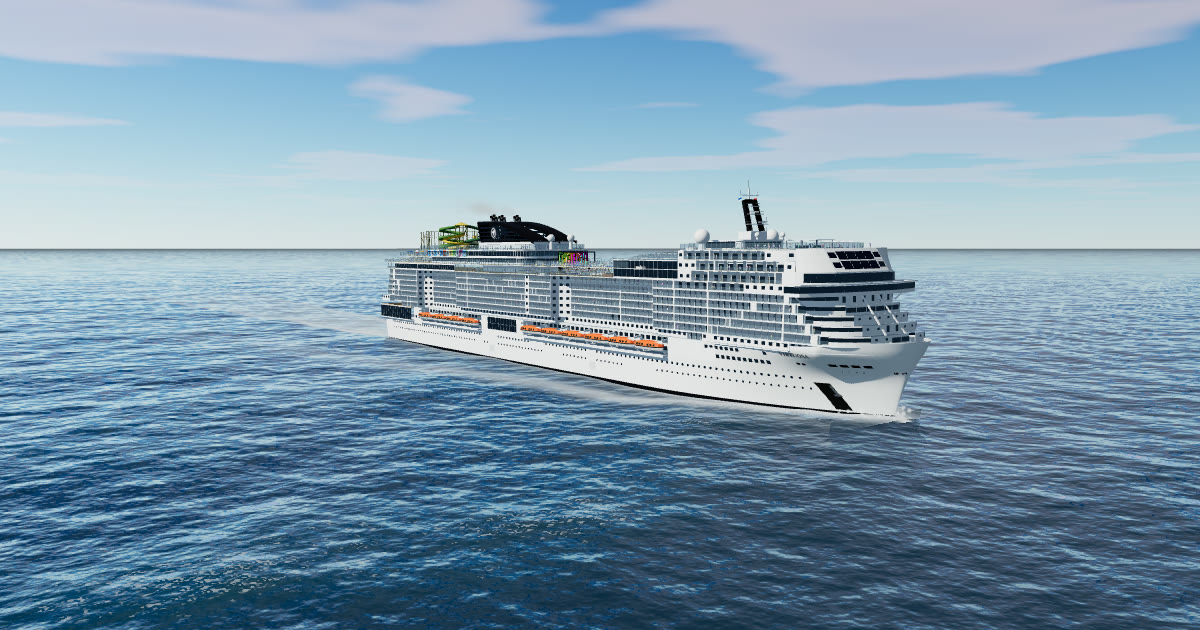
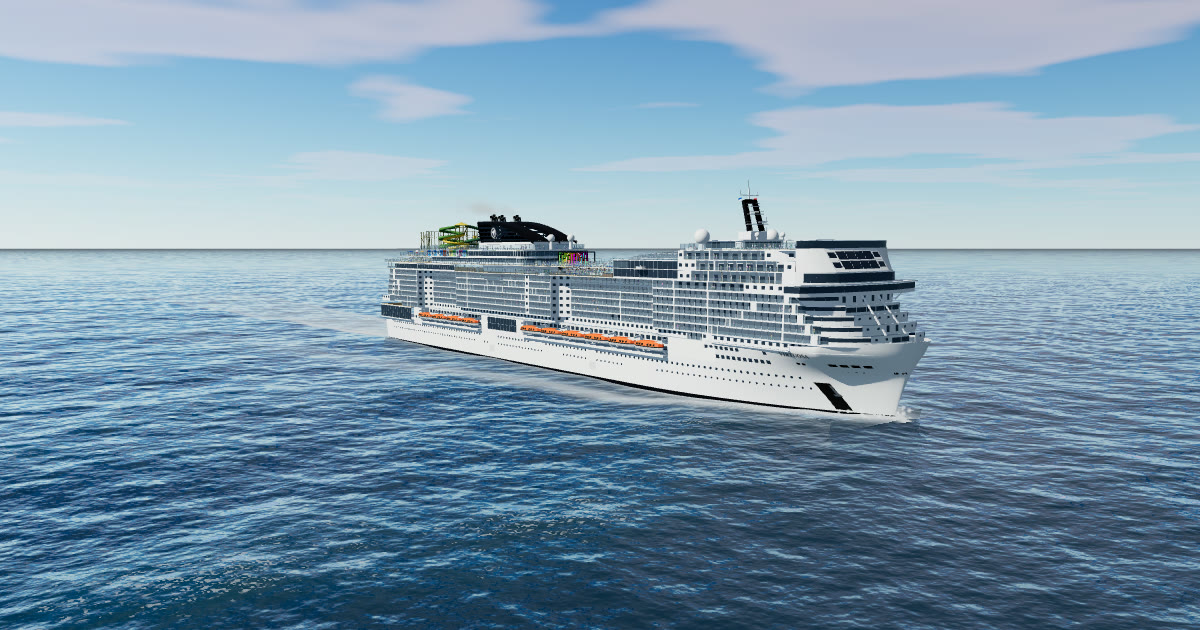
Close the gap at the top of the bow and tidy the 3D scene after review
Bow: deck 19's plan ends about 4 m short of the raked face of the decks below,
which left a gap and a free-standing corner; its sides are now run forward to
meet that face. Window glass is a little less mirror-like, so panes facing away
from the sky no longer go black.

Scene: the shadow map is fitted to the ship for any sun direction; the tour goes
back to the afternoon after its sunset and night shots; the sunset view looks
towards the sun; the Galleria stroll lets go of the camera when the user takes
it; reduced-motion users get no automatic camera movement; a non-numeric ?hour
is ignored; controls keep keyboard focus when they are redrawn. Unused materials
and a debug switch are removed.

diff --git a/ship3d/src/scene.ts b/ship3d/src/scene.ts
@@ -39,7 +39,7 @@ export const SHOTS: Shot[] = [
   { id: 'stern', pos: [-232, 60, 34], target: [-150, 41, 0], drift: -1.5 },
   { id: 'galleria', pos: [sx(GALLERIA.x0 + 5), GALLERIA.y6 + 2.4, 1.2], target: [sx(GALLERIA.x0 + 60), GALLERIA.y6 + 2.2, 0], interior: true },
   { id: 'cutaway', pos: [34, 25, 66], target: [16, 17, 0], drift: 0.35, interior: true, cut: 2.6 },
-  { id: 'sunset', pos: [-225, 20, 255], target: [10, 24, 0], drift: 0.9, hour: 17.5 },
+  { id: 'sunset', pos: [290, 24, -205], target: [0, 26, 0], drift: -0.9, hour: 18.0 },
   { id: 'night', pos: [70, 78, 70], target: [14, 40, 0], drift: 1.6, hour: 21.5 },
 ];
 
@@ -56,6 +56,9 @@ export interface ShipSceneOptions {
   /** called once the first frame is on screen */
   onReady?: () => void;
 }
+
+/** Mid-afternoon: the hour the page opens at. */
+const DAY_HOUR = 15.2;
 
 const QUALITY: Record<Quality, { dpr: number; density: number; shadows: boolean; low: boolean }> = {
   low: { dpr: 1.25, density: 0.4, shadows: false, low: true },
@@ -94,9 +97,12 @@ export class ShipScene {
   private fly: { t: number; dur: number; p0: THREE.Vector3; t0: THREE.Vector3; p1: THREE.Vector3; t1: THREE.Vector3; h0: number; h1: number | null } | null = null;
   private tourT = 0;
   private userHold = 0;
+  /** the Galleria view walks the camera along the promenade until the user takes it */
+  private stroll = true;
   private fill = new THREE.AmbientLight(0xfff0e0, 0);
   private clip = new THREE.Plane(new THREE.Vector3(0, 0, -1), 0);
   private inside = false;
+  private calm = false;
   private dpr: number;
   private maxDpr: number;
   private frames = 0;
@@ -122,11 +128,14 @@ export class ShipScene {
     this.renderer.shadowMap.type = THREE.PCFShadowMap;
     this.renderer.domElement.style.display = 'block';
     this.renderer.domElement.style.touchAction = 'none';
+    this.renderer.domElement.setAttribute('role', 'img');
+    this.renderer.domElement.setAttribute('aria-label', '3D view of the ship at sea');
     el.appendChild(this.renderer.domElement);
 
     this.camera = new THREE.PerspectiveCamera(38, 1, 2, 90000);
     this.env = new Environment(this.renderer, this.scene, q.low);
-    this.env.setHour(opts.hour ?? SHOTS.find((s) => s.id === opts.shot)?.hour ?? 15.2);
+    const hour = opts.hour !== undefined && Number.isFinite(opts.hour) ? opts.hour : undefined;
+    this.env.setHour(hour ?? SHOTS.find((s) => s.id === opts.shot)?.hour ?? DAY_HOUR);
     this.ocean = new Ocean(this.env, q.low);
     this.scene.add(this.ocean.mesh, this.fill);
 
@@ -151,6 +160,7 @@ export class ShipScene {
       // the user took the camera: stop flying and stop the tour
       this.fly = null;
       this.userHold = 6;
+      this.stroll = false;
       if (this.tour) {
         this.tour = false;
         this.opts.onShot?.(this.shot, false);
@@ -162,7 +172,9 @@ export class ShipScene {
     this.camera.position.set(...first.pos);
     this.controls.target.set(...first.target);
     this.applyMode(first);
-    this.tour = opts.tour ?? false;
+    // no camera that moves by itself for people who asked their system for less motion
+    this.calm = matchMedia('(prefers-reduced-motion: reduce)').matches;
+    this.tour = (opts.tour ?? false) && !this.calm;
 
     this.resizeObs = new ResizeObserver(() => this.resize());
     this.resizeObs.observe(el);
@@ -195,7 +207,10 @@ export class ShipScene {
     // on a tall, narrow screen stand further back so the subject still fits
     const aspect = this.camera.aspect;
     if (aspect < 1 && !s.interior) p1.sub(t1).multiplyScalar(lerp(1.75, 1, clamp((aspect - 0.45) / 0.55, 0, 1))).add(t1);
-    this.fly = { t: 0, dur: seconds, p0: this.camera.position.clone(), t0: this.controls.target.clone(), p1, t1, h0: this.env.hour, h1: s.hour ?? null };
+    // the tour comes back to the afternoon after its sunset and night shots; a view picked by hand keeps the hour
+    const h1 = s.hour ?? (byTour && SHOTS.includes(s) ? DAY_HOUR : null);
+    this.fly = { t: 0, dur: seconds, p0: this.camera.position.clone(), t0: this.controls.target.clone(), p1, t1, h0: this.env.hour, h1 };
+    this.stroll = true;
     this.applyMode(s);
     this.userHold = 0;
     this.tourT = 0;
@@ -276,14 +291,14 @@ export class ShipScene {
       if (f.t >= 1) this.fly = null;
     } else if (this.userHold > 0) {
       this.userHold -= dt;
-    } else if (this.shot.drift) {
+    } else if (this.shot.drift && !this.calm) {
       const a = (this.shot.drift * Math.PI * dt) / 180;
       const p = this.camera.position.sub(this.controls.target);
       const c = Math.cos(a);
       const s = Math.sin(a);
       p.set(p.x * c - p.z * s, p.y, p.x * s + p.z * c);
       this.camera.position.copy(p.add(this.controls.target));
-    } else if (this.shot.id === 'galleria') {
+    } else if (this.shot.id === 'galleria' && this.stroll && !this.calm) {
       // stroll along the promenade and back
       const u = 0.5 - 0.5 * Math.cos(time * 0.07);
       const x = sx(GALLERIA.x0 + 5 + u * (GALLERIA.x1 - GALLERIA.x0 - 62));

diff --git a/ship3d/src/core/materials.ts b/ship3d/src/core/materials.ts
@@ -177,7 +177,7 @@ export function makeMaterials(): Mats {
     navy: std({ color: 0x15233f, roughness: 0.42, metalness: 0.15 }),
     navy2: std({ color: 0x15233f, roughness: 0.42, metalness: 0.15, side: THREE.DoubleSide }),
     // Tinted window glass: almost a mirror of the sky from outside
-    glass: std({ color: 0x7f95a8, roughness: 0.05, metalness: 1, envMapIntensity: 18 }),
+    glass: std({ color: 0x6f8598, roughness: 0.05, metalness: 0.86, envMapIntensity: 18 }),
     // Glass balustrades and wind screens
     rail: new THREE.MeshStandardMaterial({
       color: 0x8fc0d8,
@@ -193,13 +193,9 @@ export function makeMaterials(): Mats {
     lit: new THREE.MeshBasicMaterial({ vertexColors: true, transparent: true, opacity: 0, blending: THREE.AdditiveBlending, depthWrite: false, polygonOffset: true, polygonOffsetFactor: -2, polygonOffsetUnits: -2 }),
     teak: std({ color: 0xffffff, map: teakTex, roughness: 0.82, metalness: 0 }),
     deck: std({ color: 0xffffff, roughness: 0.9 }),
-    turf: std({ color: 0xffffff, map: speckle('#3f8a4a', '#4b9a57', '#357a40'), roughness: 0.95 }),
     court: std({ color: 0xffffff, map: speckle('#3a6fb3', '#4179bd', '#3565a6'), roughness: 0.9 }),
     steel: std({ color: 0xb9c0c6, roughness: 0.32, metalness: 0.85 }),
     dark: std({ color: 0x20262c, roughness: 0.7, metalness: 0.2 }),
-    orange: std({ color: 0xf2581c, roughness: 0.5, metalness: 0 }),
-    yellow: std({ color: 0xf2c230, roughness: 0.45, metalness: 0 }),
-    green: std({ color: 0x47692f, roughness: 0.4, metalness: 0 }),
     color: std({ color: 0xffffff, roughness: 0.6, metalness: 0 }),
     color2: std({ color: 0xffffff, roughness: 0.6, metalness: 0, side: THREE.DoubleSide }),
     tile: std({ color: 0xffffff, map: mosaic(), roughness: 0.35, metalness: 0 }),
@@ -207,6 +203,6 @@ export function makeMaterials(): Mats {
     glow: new THREE.MeshBasicMaterial({ vertexColors: true }),
     water: poolWater(),
   };
-  for (const k of ['teak', 'turf', 'court', 'tile']) (m[k] as THREE.MeshStandardMaterial).map!.repeat.set(1, 1);
+  for (const k of ['teak', 'court', 'tile']) (m[k] as THREE.MeshStandardMaterial).map!.repeat.set(1, 1);
   return m;
 }

diff --git a/ship3d/src/env/sky.ts b/ship3d/src/env/sky.ts
@@ -132,9 +132,9 @@ export class Environment {
       this.sun.color.copy(this.sunColor);
       this.sun.intensity = 19 * sunUp * lerp(1, 0.8, this.golden) + 0.05;
     }
-    this.sun.position.copy(this.lightDir).multiplyScalar(420);
-    this.sun.target.position.set(0, 12, 0);
+    this.sun.position.copy(this.lightDir).multiplyScalar(420).add(this.sun.target.position.set(0, 30, 0));
     this.sun.target.updateMatrixWorld();
+    this.fitShadow();
 
     this.hemi.intensity = lerp(2.5, 0.2, this.night) * lerp(1, 0.8, this.golden);
     this.hemi.color.setRGB(lerp(0.72, 1.0, this.golden), lerp(0.84, 0.72, this.golden), lerp(1.0, 0.62, this.golden)).lerp(new THREE.Color(0.2, 0.28, 0.5), this.night);
@@ -145,6 +145,43 @@ export class Environment {
     this.exposure = lerp(lerp(0.22, 0.3, this.golden), 0.85, this.night);
     this.renderer.toneMappingExposure = this.exposure;
     this.dirty = true;
+  }
+
+  /** Fits the shadow map to the ship's bounding box as seen from the light, whatever its direction. */
+  private fitShadow() {
+    const cam = this.sun.shadow.camera;
+    this.sun.updateMatrixWorld();
+    cam.position.copy(this.sun.position);
+    cam.lookAt(this.sun.target.position);
+    cam.updateMatrixWorld();
+    const inv = cam.matrixWorldInverse.copy(cam.matrixWorld).invert();
+    let l = Infinity;
+    let r = -Infinity;
+    let b = Infinity;
+    let t = -Infinity;
+    let n = Infinity;
+    let f = -Infinity;
+    const v = new THREE.Vector3();
+    for (const x of [-169, 169]) {
+      for (const y of [-3, 70]) {
+        for (const z of [-29, 29]) {
+          v.set(x, y, z).applyMatrix4(inv);
+          l = Math.min(l, v.x);
+          r = Math.max(r, v.x);
+          b = Math.min(b, v.y);
+          t = Math.max(t, v.y);
+          n = Math.min(n, -v.z);
+          f = Math.max(f, -v.z);
+        }
+      }
+    }
+    cam.left = l;
+    cam.right = r;
+    cam.bottom = b;
+    cam.top = t;
+    cam.near = Math.max(1, n - 5);
+    cam.far = f + 5;
+    cam.updateProjectionMatrix();
   }
 
   update(time: number) {

diff --git a/ship3d/src/main.ts b/ship3d/src/main.ts
@@ -33,7 +33,7 @@ function start() {
   try {
     view = new ShipScene(stage, {
       quality: (q.get('q') as Quality) || undefined,
-      hour: q.has('hour') ? Number(q.get('hour')) : undefined,
+      hour: q.has('hour') && Number.isFinite(Number(q.get('hour'))) ? Number(q.get('hour')) : undefined,
       shot: q.get('shot') ?? undefined,
       tour: !q.has('shot') && !q.has('cam') && q.get('tour') !== '0',
       onShot: () => render(),
@@ -76,6 +76,9 @@ function start() {
 
   function render() {
     const t = TEXTS[lang];
+    // the controls are redrawn on every change: remember which one had the focus
+    const active = document.activeElement as HTMLElement | null;
+    const focusKey = active?.dataset?.shot ? `[data-shot="${active.dataset.shot}"]` : active && 'tour' in (active.dataset ?? {}) ? '[data-tour]' : active?.id ? `#${active.id}` : null;
     document.documentElement.lang = lang === 'pt' ? 'pt-BR' : 'en';
     hint.textContent = t.drag;
     const clean = document.body.classList.contains('clean');
@@ -109,6 +112,7 @@ function start() {
     chips.scrollLeft = scroll;
     if (view.tour) chips.querySelector<HTMLElement>(`[data-shot="${cur.id}"]`)?.style.setProperty('border-color', 'var(--accent)');
     syncClock(view.hour);
+    if (focusKey && focusKey !== '#hour') document.querySelector<HTMLElement>(focusKey)?.focus({ preventScroll: true });
     slider!.addEventListener('input', () => {
       view.timeLapse = 0;
       bottom.querySelector('#lapse')!.setAttribute('aria-pressed', 'false');

diff --git a/ship3d/src/ship/superstructure.ts b/ship3d/src/ship/superstructure.ts
@@ -114,18 +114,22 @@ export function frontStations(zm: number, cornerSteps = 8): number[] {
  */
 export function smoothFront(ring: Pt[], nose: number, sweep = 12): Pt[] {
   const Xc = nose - sweep;
-  const cut = dedupe(clipX(ring, -Infinity, Xc));
+  // A plan that ends short of the corners (its own front is further aft) is cut where it is
+  // still full width, and its sides are run forward to the corners.
+  const tip = Math.max(...ring.map((p) => p[0]));
+  const Xcut = tip < Xc + 2 ? tip - 14 : Xc;
+  const cut = dedupe(clipX(ring, -Infinity, Xcut));
   const n = cut.length;
   for (let i = 0; i < n; i++) {
     const a = cut[i];
     const b = cut[(i + 1) % n];
-    if (Math.abs(a[0] - Xc) > 1e-6 || Math.abs(b[0] - Xc) > 1e-6 || Math.abs(a[1] - b[1]) < 4) continue;
+    if (Math.abs(a[0] - Xcut) > 1e-6 || Math.abs(b[0] - Xcut) > 1e-6 || Math.abs(a[1] - b[1]) < 4) continue;
     const zm = Math.min(Math.abs(a[1]), Math.abs(b[1]));
     const dir = Math.sign(b[1] - a[1]);
     const X = frontCurve(nose, sweep, zm);
-    const curve = frontStations(zm)
-      .slice(1, -1)
-      .map((z) => [X(z), z * dir] as Pt);
+    const stations = frontStations(zm);
+    // when the sides were run forward the corners themselves are new points
+    const curve = (Xcut < Xc ? stations : stations.slice(1, -1)).map((z) => [X(z), z * dir] as Pt);
     return [...cut.slice(0, i + 1), ...curve, ...cut.slice(i + 1)];
   }
   return cut;

diff --git a/ship3d/index.html b/ship3d/index.html
@@ -8,7 +8,8 @@
     <meta name="theme-color" content="#0b1f3a" />
     <meta property="og:title" content="Virtuosa 3D" />
     <meta property="og:description" content="The MSC Virtuosa at sea, in 3D, in your browser. Unofficial and open source." />
-    <meta property="og:image" content="/og.jpg" />
+    <meta property="og:image" content="https://virtuosa-3d.vinicius741.workers.dev/og.jpg" />
+    <meta property="og:url" content="https://virtuosa-3d.vinicius741.workers.dev/" />
     <meta property="og:type" content="website" />
     <meta name="twitter:card" content="summary_large_image" />
     <link rel="icon" href="/favicon.svg" type="image/svg+xml" />

diff --git a/ship3d/src/env/ocean.ts b/ship3d/src/env/ocean.ts
@@ -381,14 +381,4 @@ export class Ocean {
     u.uGain.value = 0.42 / this.env.exposure;
     (u.uSunColor.value as THREE.Color).copy(this.env.sun.color).multiplyScalar(this.env.night > 0.6 ? 0.25 : Math.min(1, this.env.sun.intensity / 16));
   }
-
-  /** Height of the swell at a point beside the ship, for things that float. */
-  heightAt(x: number, z: number, time: number): number {
-    let y = 0;
-    for (const w of this.material.uniforms.uWaves.value as THREE.Vector4[]) {
-      const k = (Math.PI * 2) / w.z;
-      y += w.w * Math.sin(k * (w.x * (x + this.travel) + w.y * z) - Math.sqrt(9.81 * k) * time);
-    }
-    return y;
-  }
 }
